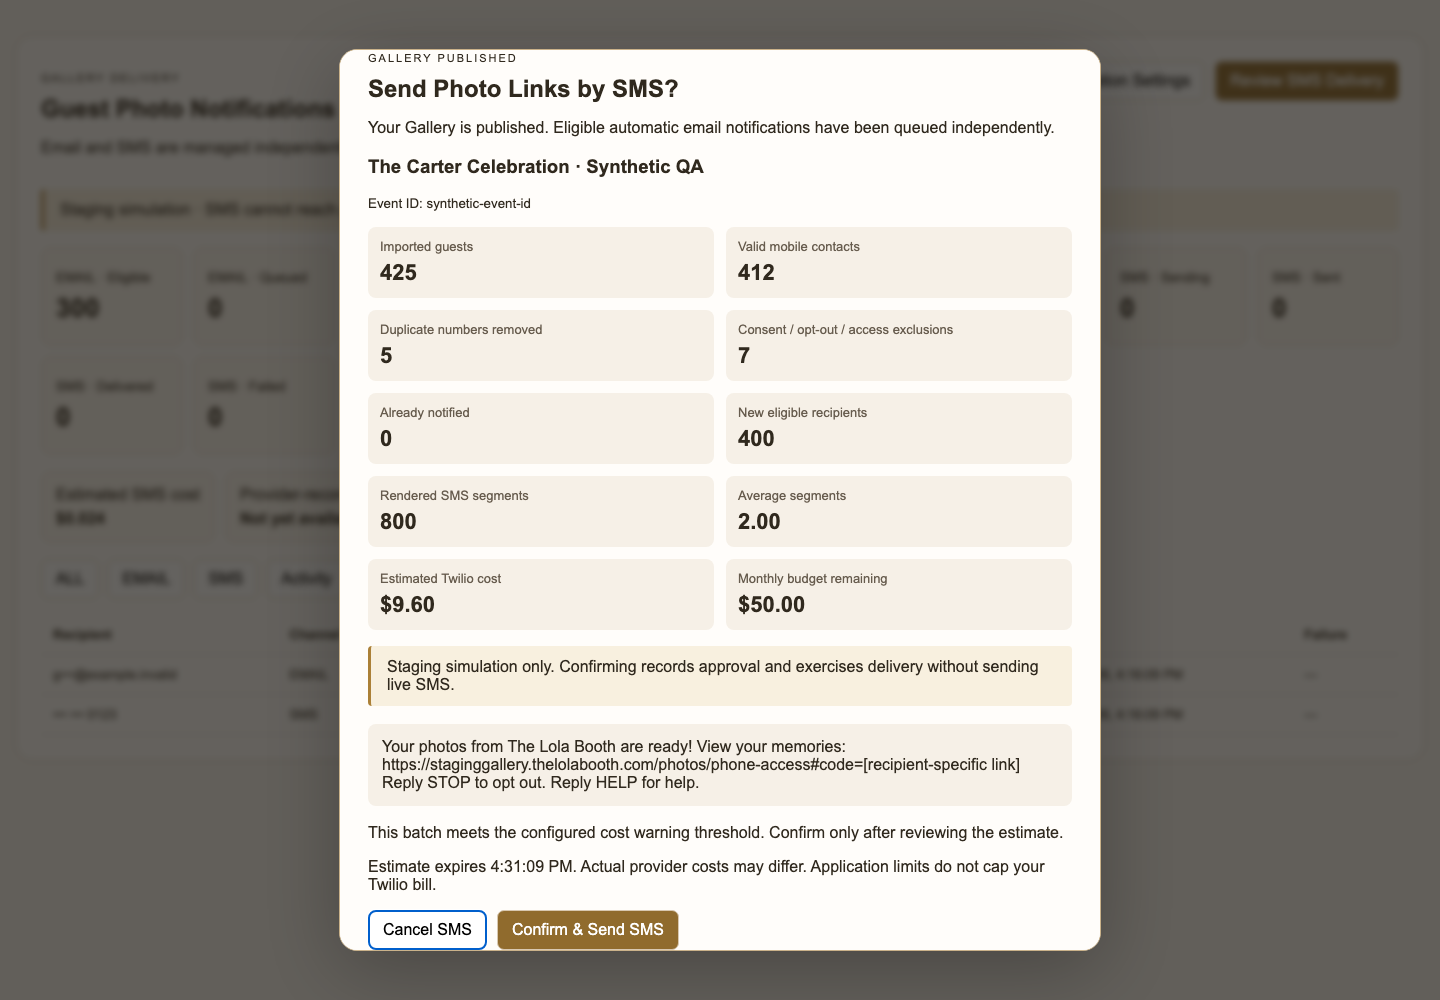
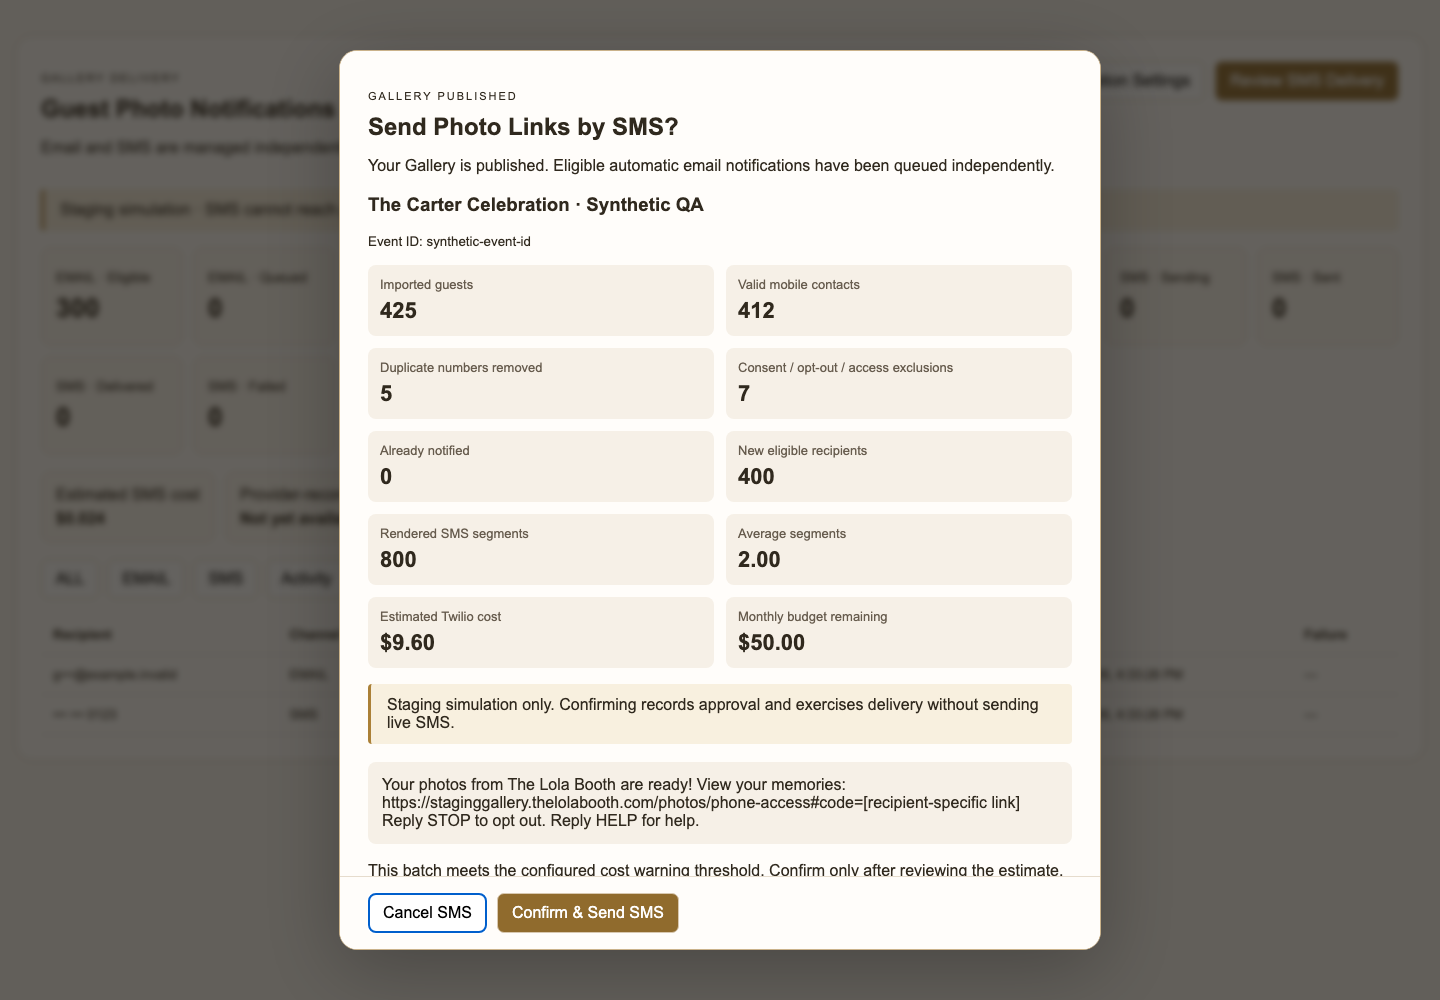
Keep SMS review heading and decision controls visible on mobile

Changed region(s): [[0.25, 0.403, 0.75, 0.961], [0.25, 0.031, 0.7188, 0.372], [0.5, 0.217, 0.6562, 0.372]]

diff --git a/src/components/GalleryGuestNotifications.jsx b/src/components/GalleryGuestNotifications.jsx
@@ -52,7 +52,8 @@ export default function GalleryGuestNotifications({
     if (!review) return;
     const old = document.activeElement;
     dialog.current.showModal();
-    cancelButton.current?.focus();
+    cancelButton.current?.focus({ preventScroll: true });
+    dialog.current.querySelector(".gn-dialog-body").scrollTop = 0;
     return () => {
       dialog.current?.close();
       old?.focus();
@@ -541,65 +542,70 @@ export default function GalleryGuestNotifications({
           }}
         >
           <div className="gn-dialog-inner">
-            <p className="eyebrow">GALLERY PUBLISHED</p>
-            <h2 id="gn-review-title">Send Photo Links by SMS?</h2>
-            <p>
-              Your Gallery is published. Eligible automatic email notifications
-              have been queued independently.
-            </p>
-            <h3>{review.eventName}</h3>
-            <small>Event ID: {review.eventId}</small>
-            <dl className="gn-review-grid">
-              {[
-                ["Imported guests", review.totalGuests],
-                ["Valid mobile contacts", review.validMobile],
-                ["Duplicate numbers removed", review.duplicates],
-                [
-                  "Consent / opt-out / access exclusions",
-                  review.consentExcluded,
-                ],
-                ["Already notified", review.alreadyNotified],
-                ["New eligible recipients", review.eligible],
-                ["Rendered SMS segments", review.segments],
-                [
-                  "Average segments",
-                  review.eligible
-                    ? (review.segments / review.eligible).toFixed(2)
-                    : "0",
-                ],
-                ["Estimated Twilio cost", money(review.estimatedMicros)],
-                ["Monthly budget remaining", money(review.remainingMicros)],
-              ].map(([label, value]) => (
-                <div key={label}>
-                  <dt>{label}</dt>
-                  <dd>{value}</dd>
-                </div>
-              ))}
-            </dl>
-            <p className="gn-mode">
-              Staging simulation only. Confirming records approval and exercises
-              delivery without sending live SMS.
-            </p>
-            {review.sampleBody && <blockquote>{review.sampleBody}</blockquote>}
-            {review.warning && (
-              <p role="status">
-                This batch meets the configured cost warning threshold. Confirm
-                only after reviewing the estimate.
+            <div className="gn-dialog-body">
+              <p className="eyebrow">GALLERY PUBLISHED</p>
+              <h2 id="gn-review-title">Send Photo Links by SMS?</h2>
+              <p>
+                Your Gallery is published. Eligible automatic email
+                notifications have been queued independently.
               </p>
-            )}
-            {review.reasons.length > 0 && (
-              <ul>
-                {review.reasons.map((reason) => (
-                  <li key={reason}>{reason}</li>
+              <h3>{review.eventName}</h3>
+              <small>Event ID: {review.eventId}</small>
+              <dl className="gn-review-grid">
+                {[
+                  ["Imported guests", review.totalGuests],
+                  ["Valid mobile contacts", review.validMobile],
+                  ["Duplicate numbers removed", review.duplicates],
+                  [
+                    "Consent / opt-out / access exclusions",
+                    review.consentExcluded,
+                  ],
+                  ["Already notified", review.alreadyNotified],
+                  ["New eligible recipients", review.eligible],
+                  ["Rendered SMS segments", review.segments],
+                  [
+                    "Average segments",
+                    review.eligible
+                      ? (review.segments / review.eligible).toFixed(2)
+                      : "0",
+                  ],
+                  ["Estimated Twilio cost", money(review.estimatedMicros)],
+                  ["Monthly budget remaining", money(review.remainingMicros)],
+                ].map(([label, value]) => (
+                  <div key={label}>
+                    <dt>{label}</dt>
+                    <dd>{value}</dd>
+                  </div>
                 ))}
-              </ul>
-            )}
-            <p>
-              Estimate expires {new Date(review.expiresAt).toLocaleTimeString()}
-              . Actual provider costs may differ. Application limits do not cap
-              your Twilio bill.
-            </p>
-            {error && <p role="alert">{error}</p>}
+              </dl>
+              <p className="gn-mode">
+                Staging simulation only. Confirming records approval and
+                exercises delivery without sending live SMS.
+              </p>
+              {review.sampleBody && (
+                <blockquote>{review.sampleBody}</blockquote>
+              )}
+              {review.warning && (
+                <p role="status">
+                  This batch meets the configured cost warning threshold.
+                  Confirm only after reviewing the estimate.
+                </p>
+              )}
+              {review.reasons.length > 0 && (
+                <ul>
+                  {review.reasons.map((reason) => (
+                    <li key={reason}>{reason}</li>
+                  ))}
+                </ul>
+              )}
+              <p>
+                Estimate expires{" "}
+                {new Date(review.expiresAt).toLocaleTimeString()}. Actual
+                provider costs may differ. Application limits do not cap your
+                Twilio bill.
+              </p>
+              {error && <p role="alert">{error}</p>}
+            </div>
             <div className="gn-actions">
               <button
                 ref={cancelButton}

diff --git a/test/gallery-notifications-browser.test.js b/test/gallery-notifications-browser.test.js
@@ -143,6 +143,17 @@ test(
           true,
         );
         assert.deepEqual(decisions, []);
+        const heading = await page
+          .getByRole("heading", {
+            name: "Send Photo Links by SMS?",
+            exact: true,
+          })
+          .boundingBox();
+        assert.ok(heading.y >= 0 && heading.y + heading.height < 1000);
+        const cancel = await page
+          .getByRole("button", { name: "Cancel SMS", exact: true })
+          .boundingBox();
+        assert.ok(cancel.y >= 0 && cancel.y + cancel.height <= 1000);
         assert.ok(await dialog.getByText("400", { exact: true }).count());
         await page.screenshot({
           path: `/private/tmp/lola-gallery-sms-confirm-${width}.png`,

diff --git a/src/styles/gallery-notifications.css b/src/styles/gallery-notifications.css
@@ -168,3 +168,38 @@
     font-size: 19px;
   }
 }
+
+.gn-dialog {
+  overflow: hidden;
+}
+.gn-dialog .gn-dialog-inner {
+  display: flex;
+  flex-direction: column;
+  padding: 0;
+  max-height: calc(90dvh - 2px);
+  overflow: hidden;
+}
+.gn-dialog .gn-dialog-body {
+  overflow: auto;
+  min-height: 0;
+  padding: 28px;
+  overscroll-behavior: contain;
+}
+.gn-dialog .gn-actions {
+  flex-shrink: 0;
+  background: #fffdfa;
+  padding: 16px 28px;
+  border-top: 1px solid #e6dccd;
+}
+@media (max-width: 650px) {
+  .gn-dialog .gn-dialog-body {
+    padding: 18px;
+  }
+  .gn-dialog .gn-actions {
+    padding: 14px 18px;
+  }
+  .gn-dialog .gn-actions button {
+    flex: 1;
+    min-width: 0;
+  }
+}

diff --git a/docs/gallery-notifications-20261125.md b/docs/gallery-notifications-20261125.md
@@ -121,12 +121,12 @@ Main files:
 ## Validation
 
 - Full unit suite: **843 passed, 66 skipped, 0 failed** (909 tests; opt-in database/browser suites run separately).
-- Synthetic 400-recipient lifecycle, pricing and repeated-click/cancel tests passed. Expanded database lifecycle: **19 tests passed**; sequential Gallery notification, Fiesta, Dropbox, deletion and lookup regressions: **22 passed** before the additional CRM opt-out and early-callback cases.
+- Synthetic 400-recipient lifecycle, pricing and repeated-click/cancel tests passed. Expanded database lifecycle: **19 tests passed**; sequential Gallery notification, Fiesta, Dropbox, deletion and lookup regressions: **24 passed**, including the additional CRM opt-out and early-callback cases.
 - Cross-Gallery concurrent approvals cannot reserve over the same monthly budget.
 - Signed Twilio STOP/HELP and forged-signature tests passed; no duplicate compliance response or unrelated SMS sends.
 - Token/email verification, forwarded-token limits, revoked grants, unknown-phone neutrality, trusted-only lookup and arbitrary-email takeover prevention passed.
 - Staging live flags cannot construct a Twilio client. Unapproved email destinations remain blocked even with the legacy broad QA switch enabled. All provider-facing unit tests use stubs/development transport; zero real messages or charges.
-- Responsive browser interaction passed at 1440 and 390 pixels, including Cancel focus, zero premature sends, later fresh review and confirmation.
+- Responsive browser interaction passed at 1440 and 390 pixels, including Cancel focus, initially visible event heading and decision controls, zero premature sends, later fresh review and confirmation.
 - Production build passed. Hosted deployment/CI evidence is appended after rollout.
 
 **Readiness:** ready for staging review/simulation; live SMS and production promotion remain blocked on the setup and independent qualification above. Permanent phone enrollment is deliberately deferred by the owner's instruction.
